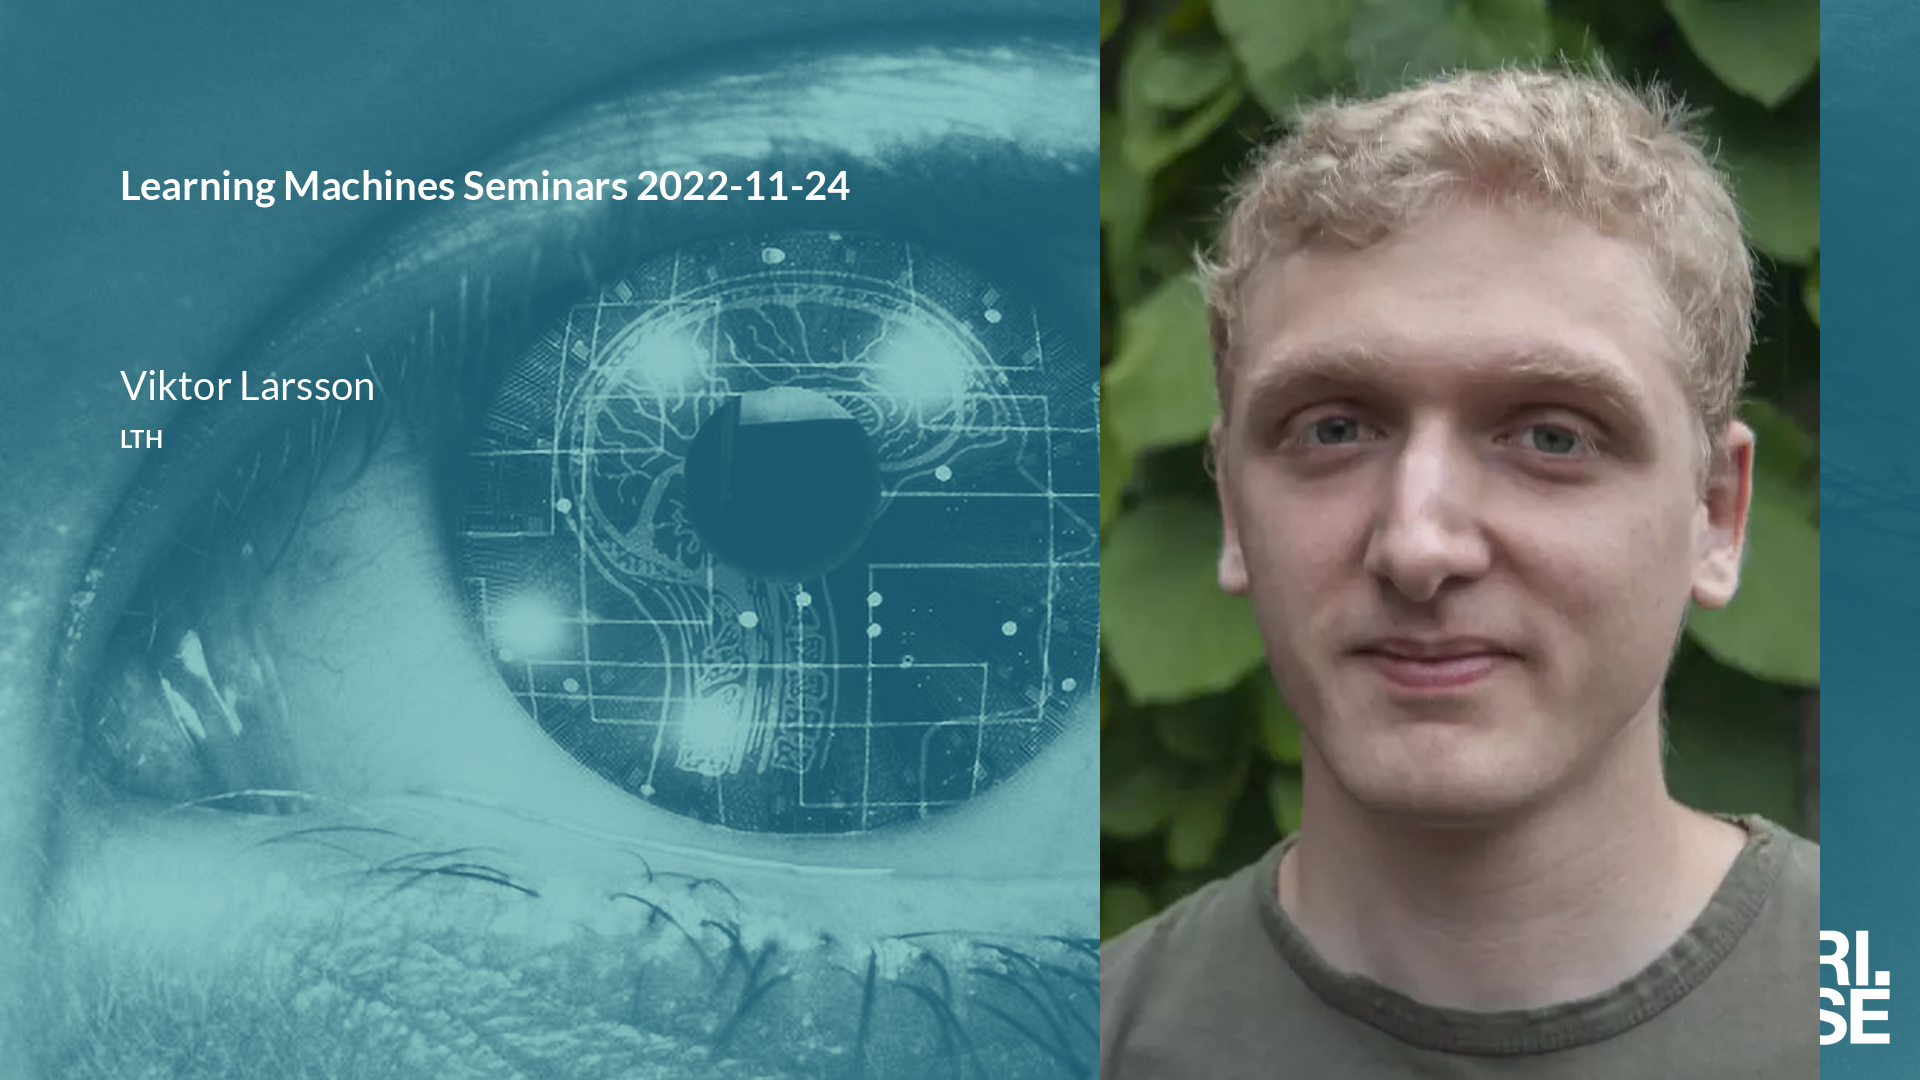
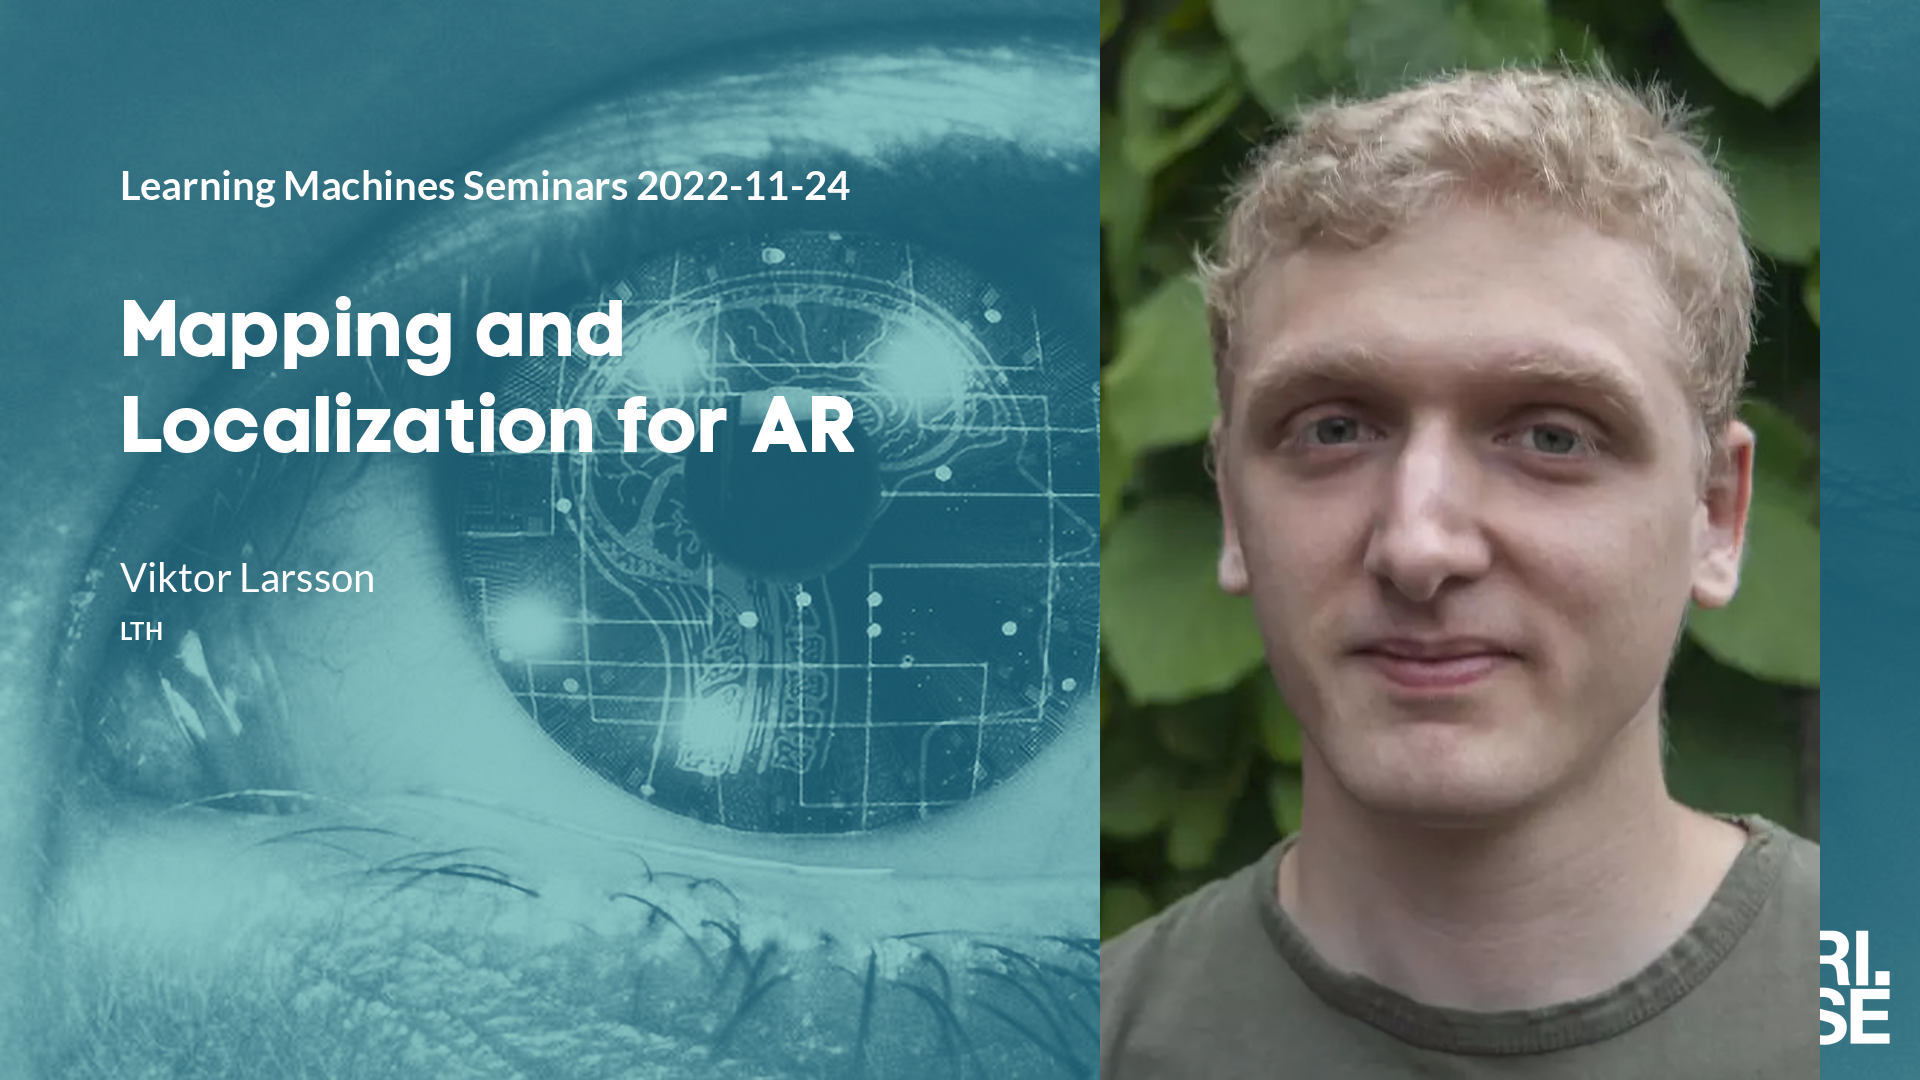
Updated plan on web site.

Changed region(s): [[0.0625, 0.275, 0.4688, 0.4278], [0.0625, 0.5194, 0.1875, 0.55], [0.0625, 0.5806, 0.0938, 0.6111]]

diff --git a/lm/2022-11-24.md b/lm/2022-11-24.md
@@ -1,12 +1,12 @@
 Welcome to this week's Learning Machines seminar.
 
-**Title:** 
+**Title:** Mapping and Localization for AR
 
 **Speaker:** Viktor Larsson, LTH
 
-**Abstract:** 
+**Abstract:** For augmented reality devices to persist content across sessions it is necessary to both build maps of the environment and to localize within them. The current benchmarks for visual localization are focused on single-image localization. However, in the context of AR, more information is usually available, e.g. temporal data (image sequences), IMU or radio signals. In this talk I will present our recent work on benchmarking localization and mapping in the context of AR. We have introduced a new dataset which contain diverse and large-scale scenes recorded with head-mounted and hand-held AR devices, together with an accurate ground truth obtained via laser scanners. While we used the dataset for benchmarking, we believe it can be useful in many other contexts as well.
 
-**About the speaker:** Viktor Larsson is an associate professor in the Mathematical Imaging Group at Lund University. He previously worked as a PostDoc and senior researcher at the Computer Vision and Geometry group lead by Marc Pollefeys at ETH Zurich. His research interests include robust estimation problems that appear in 3D computer vision (e.g. Structure-from-Motion, visual localization and SLAM). He is currently exploring how to best integrate deep learning with classical geometry-based pipelines. In particular, identifying and replacing hand-crafted heuristics or implicit assumptions with more data-driven alternatives.
+**About the speaker:** Viktor Larsson is an assistant professor in the Mathematical Imaging Group at Lund University. He previously worked as a PostDoc and senior researcher at the Computer Vision and Geometry group lead by Marc Pollefeys at ETH Zurich. His research interests include robust estimation problems that appear in 3D computer vision (e.g. Structure-from-Motion, visual localization and SLAM). He is currently exploring how to best integrate deep learning with classical geometry-based pipelines. In particular, identifying and replacing hand-crafted heuristics or implicit assumptions with more data-driven alternatives.
 
 **Location:** This is an online seminar. Connect using Zoom.
 
